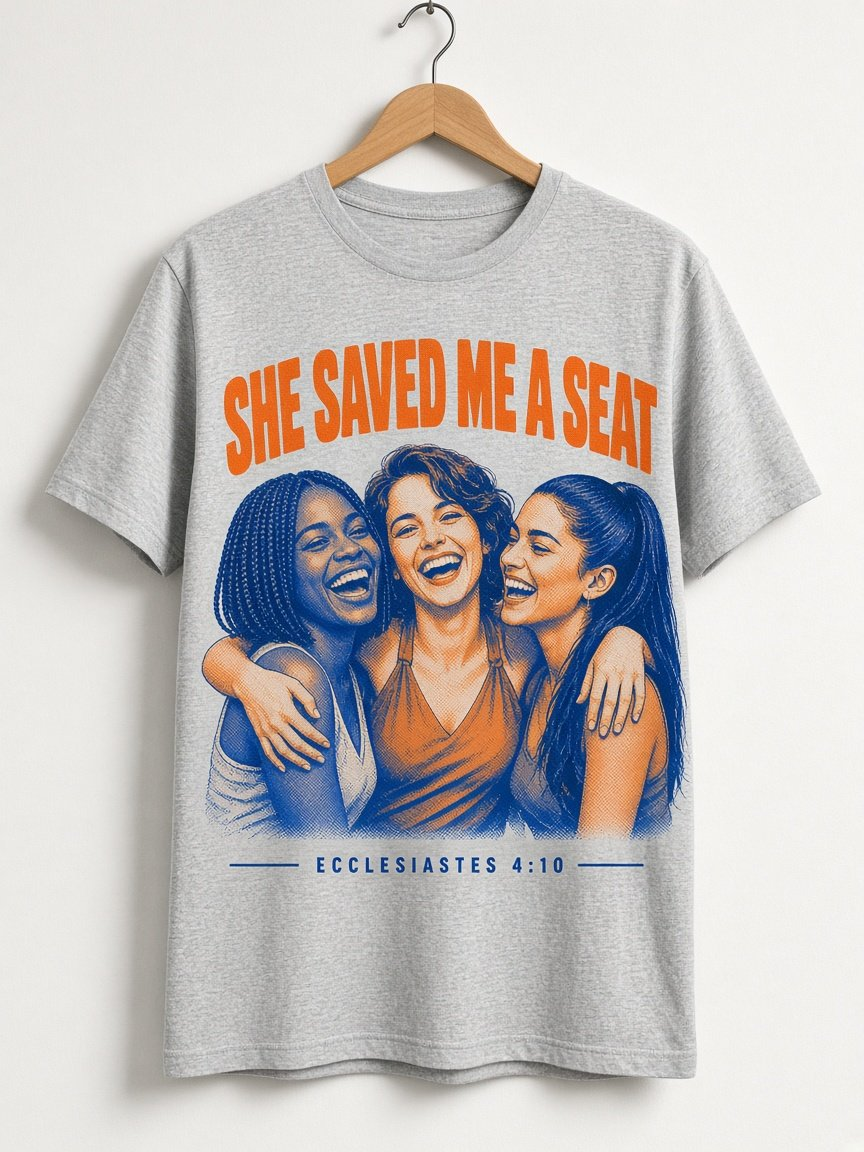
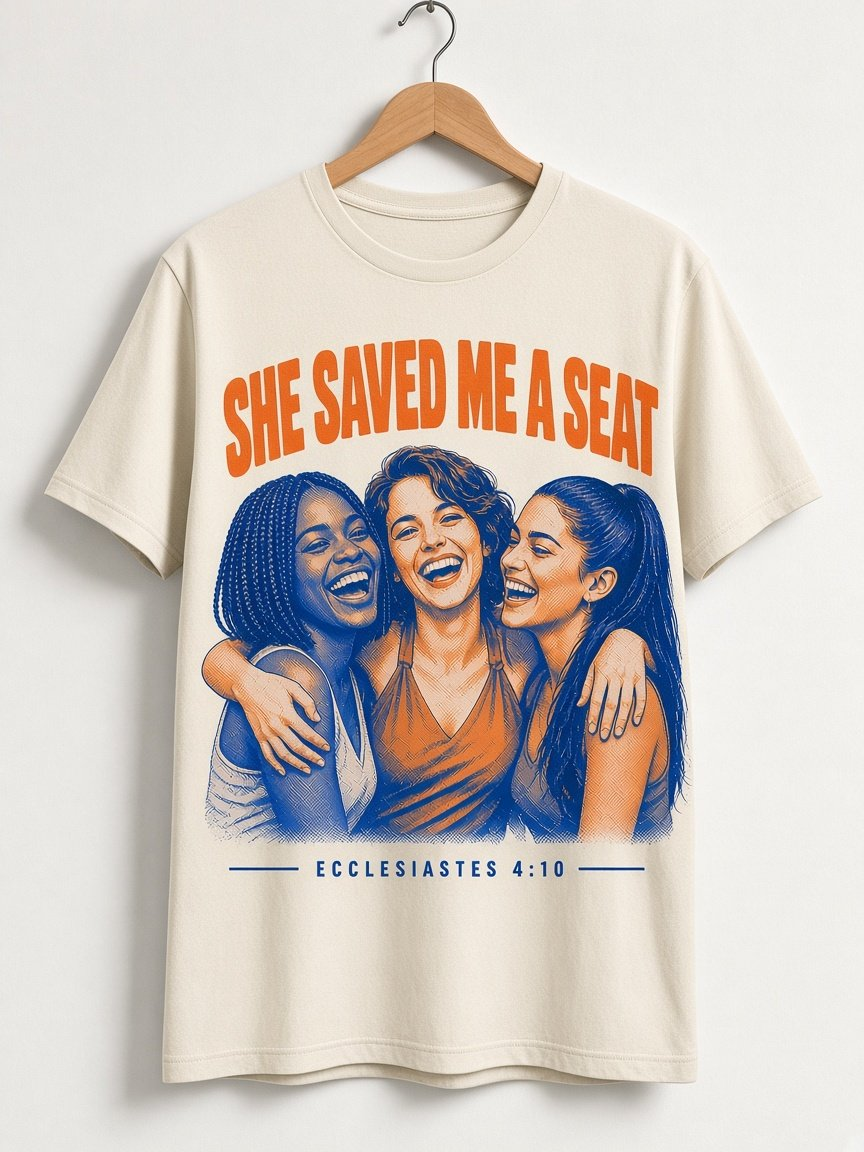
Use the cream She Saved Me a Seat tee.
Replace the gray print, describe the cream shirt in the alt text, and cache-bust with v=3.

diff --git a/index.html b/index.html
@@ -209,7 +209,7 @@ footer h5{font-size:11px;letter-spacing:.28em;text-transform:uppercase;color:#B8
 <article class="spot"><figure class="spotph"><img src="assets/support/brandi-barnes.jpg" alt="Ms. Brandi Barnes, owner of Designs by BCE"></figure><div class="spotcopy"><div class="kicker">Spotlight</div><h4>Ms. Brandi Barnes</h4><p class="spotline">Veteran. Mom. Founder of Favor Forward. Owner of Designs by BCE.</p><p class="spotbody">Brandi served her country, and now she pours that same heart into her family and her business. She is also the founder of <a href="https://www.favorforwardfoundation.org/" target="_blank" rel="noopener noreferrer">Favor Forward Foundation</a>, turning compassion into practical action. Through <a href="https://www.designsbybce.com/" target="_blank" rel="noopener noreferrer">Designs by BCE</a>, she offers event services, custom gifts, and party favors, and all that comes with them, to make life&rsquo;s big moments unforgettable, from baby showers and gender reveals to graduations and beyond.</p><div class="spottags"><span>Event Services</span><span>Custom Gifts</span><span>Party Favors</span></div><div class="bizacts"><a class="btn" href="https://www.designsbybce.com/" target="_blank" rel="noopener noreferrer">Visit Her Website</a><a class="btn o" href="https://www.etsy.com/shop/GiftsOfFavor" target="_blank" rel="noopener noreferrer">Shop her Etsy</a><a class="btn o" href="https://www.instagram.com/bcedesigns/" target="_blank" rel="noopener noreferrer">Follow on Instagram</a></div></div></article>
 </section>
 <section class="shop" id="shirts"><div class="lbl">The Shirts</div><div class="shophead"><h3>Wear the <i>chapter</i><br>you&rsquo;re in.</h3><div class="soon">Coming soon to the shop</div></div><div class="grid art"><figure class="card artcard"><div class="artimg"><img src="assets/shirts/still-becoming-front.jpg" alt="Still Becoming shirt on plum"></div><div class="looks" role="group" aria-label="Still Becoming looks"><button type="button" aria-pressed="true" aria-label="Look 1" data-src="assets/shirts/still-becoming-front.jpg" data-alt="Still Becoming shirt on plum"><img src="assets/shirts/still-becoming-front.jpg" alt=""></button><button type="button" aria-pressed="false" aria-label="Look 2" data-src="assets/shirts/still-becoming-white.jpg" data-alt="Still Becoming shirt on a white woman"><img src="assets/shirts/still-becoming-white.jpg" alt="" loading="lazy"></button><button type="button" aria-pressed="false" aria-label="Look 3" data-src="assets/shirts/still-becoming-latina.jpg" data-alt="Still Becoming shirt on a Latina woman"><img src="assets/shirts/still-becoming-latina.jpg" alt="" loading="lazy"></button></div><figcaption><span>No. 01 &middot; Front print</span>Still Becoming</figcaption></figure><figure class="card artcard"><div class="artimg"><img src="assets/shirts/her-next-chapter-front.jpg" alt="Her Next Chapter shirt on plum"></div><div class="looks" role="group" aria-label="Her Next Chapter looks"><button type="button" aria-pressed="true" aria-label="Look 1" data-src="assets/shirts/her-next-chapter-front.jpg" data-alt="Her Next Chapter shirt on plum"><img src="assets/shirts/her-next-chapter-front.jpg" alt=""></button><button type="button" aria-pressed="false" aria-label="Look 2" data-src="assets/shirts/her-next-chapter-white.jpg" data-alt="Her Next Chapter shirt on a white woman"><img src="assets/shirts/her-next-chapter-white.jpg" alt="" loading="lazy"></button><button type="button" aria-pressed="false" aria-label="Look 3" data-src="assets/shirts/her-next-chapter-latina.jpg" data-alt="Her Next Chapter shirt on a Latina woman"><img src="assets/shirts/her-next-chapter-latina.jpg" alt="" loading="lazy"></button></div><figcaption><span>No. 02 &middot; Front print</span>Her Next Chapter</figcaption></figure><figure class="card artcard"><div class="artimg"><img src="assets/shirts/turning-the-page-front.jpg" alt="Turning the Page shirt on plum"></div><div class="looks" role="group" aria-label="Turning the Page looks"><button type="button" aria-pressed="true" aria-label="Look 1" data-src="assets/shirts/turning-the-page-front.jpg" data-alt="Turning the Page shirt on plum"><img src="assets/shirts/turning-the-page-front.jpg" alt=""></button><button type="button" aria-pressed="false" aria-label="Look 2" data-src="assets/shirts/turning-the-page-white.jpg" data-alt="Turning the Page shirt on a white woman"><img src="assets/shirts/turning-the-page-white.jpg" alt="" loading="lazy"></button><button type="button" aria-pressed="false" aria-label="Look 3" data-src="assets/shirts/turning-the-page-latina.jpg" data-alt="Turning the Page shirt on a Latina woman"><img src="assets/shirts/turning-the-page-latina.jpg" alt="" loading="lazy"></button></div><figcaption><span>No. 03 &middot; Front print</span>Turning the Page</figcaption></figure><figure class="card artcard"><div class="artimg"><img src="assets/shirts/shes-writing-it-now-back.jpg" alt="She&rsquo;s Writing It Now shirt on plum"><span class="backtag">Back</span></div><figcaption class="withinset"><div><span>No. 04 &middot; Chest logo + back</span>She&rsquo;s Writing It Now</div><div class="inset"><img src="assets/shirts/chest-patch-front.jpg" alt="Front chest patch"><span>Front</span></div></figcaption><div class="looks" role="group" aria-label="She&rsquo;s Writing It Now looks"><button type="button" aria-pressed="true" aria-label="Look 1" data-src="assets/shirts/shes-writing-it-now-back.jpg" data-alt="She&rsquo;s Writing It Now shirt on plum"><img src="assets/shirts/shes-writing-it-now-back.jpg" alt=""></button><button type="button" aria-pressed="false" aria-label="Look 2" data-src="assets/shirts/shes-writing-it-now-white.jpg" data-alt="She&rsquo;s Writing It Now shirt on a white woman"><img src="assets/shirts/shes-writing-it-now-white.jpg" alt="" loading="lazy"></button><button type="button" aria-pressed="false" aria-label="Look 3" data-src="assets/shirts/shes-writing-it-now-latina.jpg" data-alt="She&rsquo;s Writing It Now shirt on a Latina woman"><img src="assets/shirts/shes-writing-it-now-latina.jpg" alt="" loading="lazy"></button></div></figure></div>
-<div class="sayings-block"><div class="lbl">New sayings</div><div class="sayings"><figure class="card artcard"><div class="artimg"><img src="assets/shirts/sayings/ink-still-wet.jpg" alt="Ink Still Wet shirt" loading="lazy"></div><figcaption>Ink Still Wet</figcaption></figure><figure class="card artcard"><div class="artimg"><img src="assets/shirts/sayings/hold-her-hand.jpg" alt="Healed Enough to Hold Her Hand shirt" loading="lazy"></div><figcaption>Healed Enough to Hold Her Hand</figcaption></figure><figure class="card artcard"><div class="artimg"><img src="assets/shirts/sayings/chapter-one.jpg" alt="God Wasn&rsquo;t Done With Chapter One shirt" loading="lazy"></div><figcaption>God Wasn&rsquo;t Done With Chapter One</figcaption></figure><figure class="card artcard"><div class="artimg"><img src="assets/shirts/sayings/prayed-up.jpg" alt="Prayed Up &amp; Plotting shirt" loading="lazy"></div><figcaption>Prayed Up &amp; Plotting</figcaption></figure><figure class="card artcard"><div class="artimg"><img src="assets/shirts/sayings/pressed-not-crushed.jpg" alt="Pressed, Not Crushed shirt" loading="lazy"></div><figcaption>Pressed, Not Crushed</figcaption></figure><figure class="card artcard"><div class="artimg"><img src="assets/shirts/sayings/saved-me-a-seat.jpg?v=2" alt="Gray tee with a pop art print of three women laughing arm in arm and Ecclesiastes 4:10" loading="lazy"></div><figcaption>She Saved Me a Seat</figcaption></figure></div></div>
+<div class="sayings-block"><div class="lbl">New sayings</div><div class="sayings"><figure class="card artcard"><div class="artimg"><img src="assets/shirts/sayings/ink-still-wet.jpg" alt="Ink Still Wet shirt" loading="lazy"></div><figcaption>Ink Still Wet</figcaption></figure><figure class="card artcard"><div class="artimg"><img src="assets/shirts/sayings/hold-her-hand.jpg" alt="Healed Enough to Hold Her Hand shirt" loading="lazy"></div><figcaption>Healed Enough to Hold Her Hand</figcaption></figure><figure class="card artcard"><div class="artimg"><img src="assets/shirts/sayings/chapter-one.jpg" alt="God Wasn&rsquo;t Done With Chapter One shirt" loading="lazy"></div><figcaption>God Wasn&rsquo;t Done With Chapter One</figcaption></figure><figure class="card artcard"><div class="artimg"><img src="assets/shirts/sayings/prayed-up.jpg" alt="Prayed Up &amp; Plotting shirt" loading="lazy"></div><figcaption>Prayed Up &amp; Plotting</figcaption></figure><figure class="card artcard"><div class="artimg"><img src="assets/shirts/sayings/pressed-not-crushed.jpg" alt="Pressed, Not Crushed shirt" loading="lazy"></div><figcaption>Pressed, Not Crushed</figcaption></figure><figure class="card artcard"><div class="artimg"><img src="assets/shirts/sayings/saved-me-a-seat.jpg?v=3" alt="Cream tee with a pop art print of three women laughing arm in arm and Ecclesiastes 4:10" loading="lazy"></div><figcaption>She Saved Me a Seat</figcaption></figure></div></div>
 <p class="note">Coming soon</p></section>
 <section class="podsec" id="podcast"><div class="lbl">Podcast</div>
 <div class="kicker">On Air</div>
